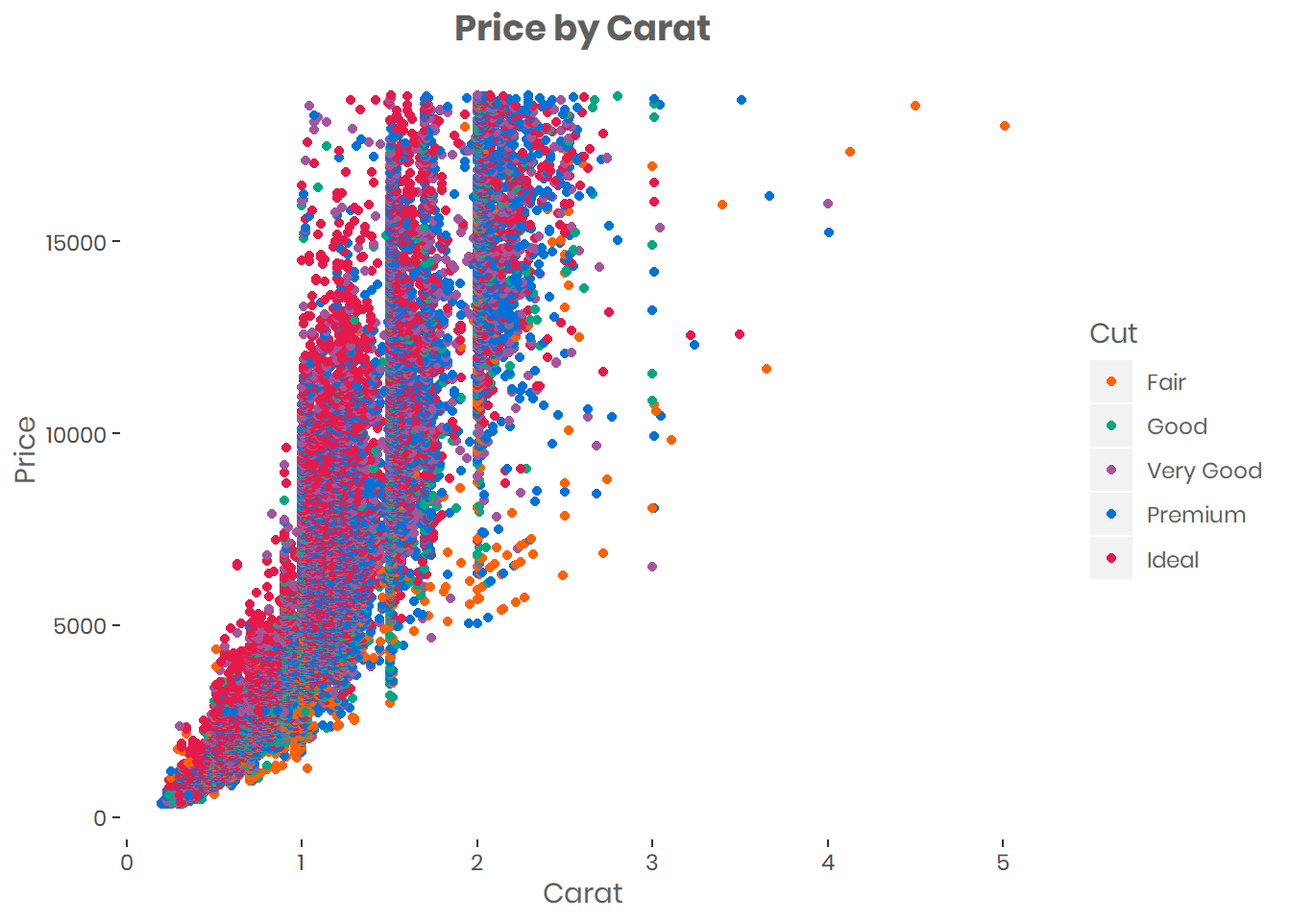
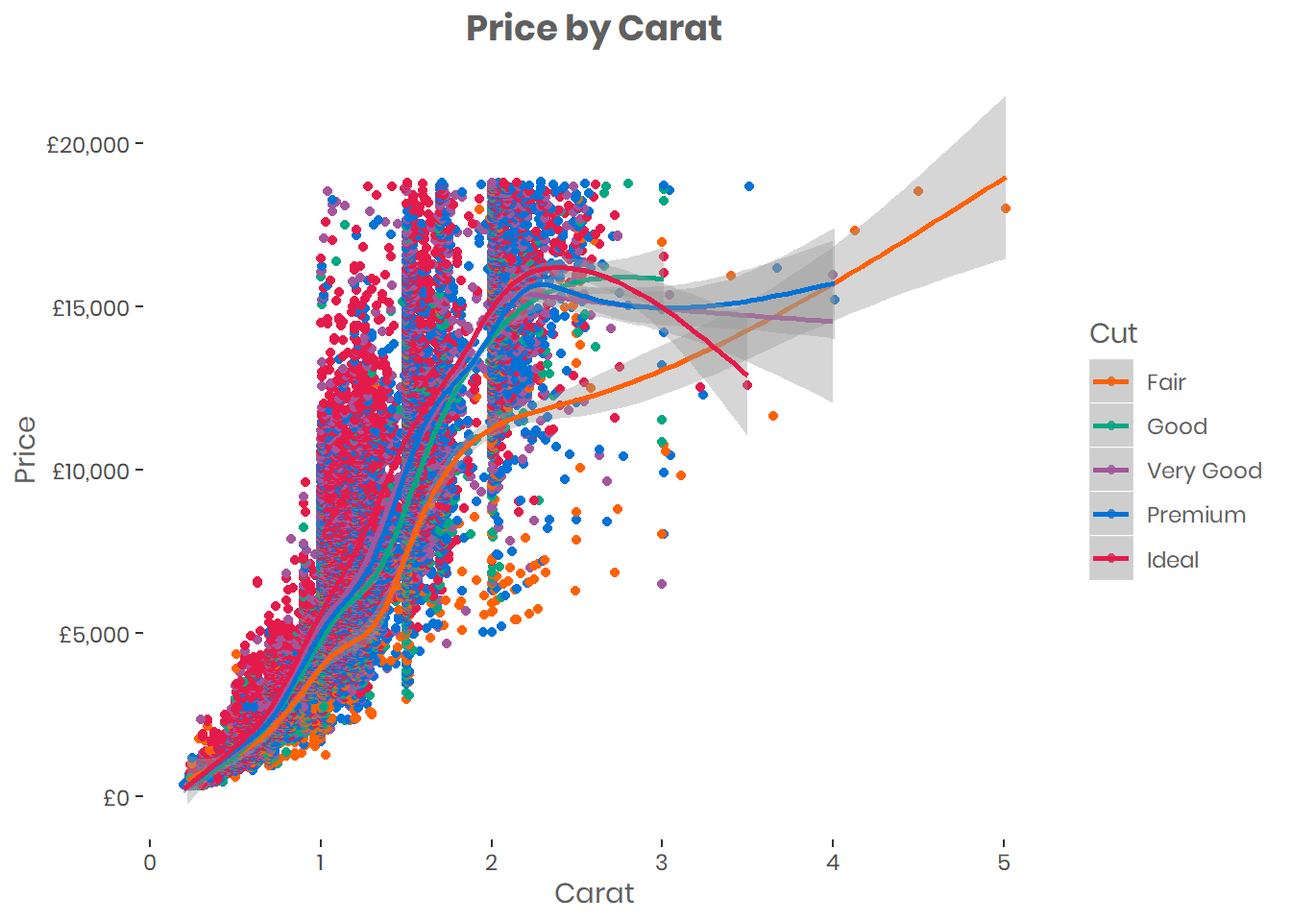
Plot fix

diff --git a/Cookbook.html b/Cookbook.html
@@ -529,99 +529,89 @@ div.tocify {
 <div class="sourceCode" id="cb3"><pre class="sourceCode r"><code class="sourceCode r"><a class="sourceLine" id="cb3-1" title="1"><span class="co"># Scatter plot</span></a>
 <a class="sourceLine" id="cb3-2" title="2">d &lt;-<span class="st"> </span>diamonds <span class="co"># using diamonds dataset</span></a>
 <a class="sourceLine" id="cb3-3" title="3"></a>
-<a class="sourceLine" id="cb3-4" title="4">plot.point &lt;-<span class="st"> </span><span class="kw">ggplot</span>(<span class="dt">data =</span> d)<span class="op">+</span><span class="st"> </span></a>
-<a class="sourceLine" id="cb3-5" title="5"><span class="st">  </span><span class="kw">geom_point</span>(<span class="kw">aes</span>(<span class="dt">x =</span> carat, <span class="dt">y =</span> price, <span class="dt">color =</span> cut)) <span class="op">+</span><span class="st"> </span></a>
-<a class="sourceLine" id="cb3-6" title="6"><span class="st">  </span><span class="kw">theme</span>(<span class="dt">text =</span> <span class="kw">element_text</span>(<span class="dt">family =</span> <span class="st">&quot;Poppins&quot;</span>, <span class="dt">color =</span> <span class="st">&quot;#5F5F5F&quot;</span>), </a>
-<a class="sourceLine" id="cb3-7" title="7">        <span class="dt">plot.title=</span><span class="kw">element_text</span>(<span class="dt">size=</span><span class="dv">14</span>,<span class="dt">family =</span> <span class="st">&quot;Poppins&quot;</span>, <span class="dt">face=</span><span class="st">&quot;bold&quot;</span>, <span class="dt">hjust =</span> <span class="fl">0.5</span>),</a>
-<a class="sourceLine" id="cb3-8" title="8">        <span class="dt">panel.background  =</span>  <span class="kw">element_blank</span>()) <span class="op">+</span><span class="st"> </span></a>
-<a class="sourceLine" id="cb3-9" title="9"><span class="st">  </span><span class="kw">labs</span>( <span class="dt">x=</span> <span class="st">&quot;Carat&quot;</span>, <span class="dt">y =</span> <span class="st">&quot;Price&quot;</span>, <span class="dt">title =</span> <span class="st">&quot;Price by Carat&quot;</span>) <span class="op">+</span></a>
-<a class="sourceLine" id="cb3-10" title="10"><span class="st">  </span><span class="kw">scale_color_manual</span>(<span class="dt">values=</span> plot_colour_inverse, <span class="dt">name =</span> <span class="st">&#39;Cut&#39;</span>) </a>
-<a class="sourceLine" id="cb3-11" title="11">plot.point</a></code></pre></div>
-<p><img src="Cookbook_files/figure-html/scatter-1.png" width="672" style="display: block; margin: auto;" /></p>
-<p>Depending on your data, additional changes may be required to “neaten” the plot. For example, we can reformat the y axis labels to display them as currency, and add <code>geom_smooth</code> to help show patterns:</p>
-<div class="sourceCode" id="cb4"><pre class="sourceCode r"><code class="sourceCode r"><a class="sourceLine" id="cb4-1" title="1"><span class="co"># Scatter plot</span></a>
-<a class="sourceLine" id="cb4-2" title="2">d &lt;-<span class="st"> </span>diamonds</a>
-<a class="sourceLine" id="cb4-3" title="3">plot.point.v1 &lt;-<span class="st"> </span><span class="kw">ggplot</span>(<span class="dt">data =</span> d)<span class="op">+</span><span class="st"> </span></a>
-<a class="sourceLine" id="cb4-4" title="4"><span class="st">  </span><span class="kw">geom_point</span>(<span class="kw">aes</span>(<span class="dt">x =</span> carat, <span class="dt">y =</span> price, <span class="dt">color =</span> cut)) <span class="op">+</span></a>
-<a class="sourceLine" id="cb4-5" title="5"><span class="st">  </span><span class="kw">geom_smooth</span>(<span class="kw">aes</span>(<span class="dt">x =</span> carat, <span class="dt">y =</span> price, <span class="dt">color =</span> cut)) <span class="op">+</span></a>
-<a class="sourceLine" id="cb4-6" title="6"><span class="st">  </span><span class="kw">theme</span>(<span class="dt">text =</span> <span class="kw">element_text</span>(<span class="dt">family =</span> <span class="st">&quot;Poppins&quot;</span>, <span class="dt">color =</span> <span class="st">&quot;#5F5F5F&quot;</span>), </a>
-<a class="sourceLine" id="cb4-7" title="7">        <span class="dt">plot.title=</span><span class="kw">element_text</span>(<span class="dt">size=</span><span class="dv">14</span>,<span class="dt">family =</span> <span class="st">&quot;Poppins&quot;</span>, <span class="dt">face=</span><span class="st">&quot;bold&quot;</span>, <span class="dt">hjust =</span> <span class="fl">0.5</span>),</a>
-<a class="sourceLine" id="cb4-8" title="8">        <span class="dt">panel.background  =</span>  <span class="kw">element_blank</span>() ) <span class="op">+</span><span class="st"> </span></a>
-<a class="sourceLine" id="cb4-9" title="9"><span class="st">  </span><span class="kw">labs</span>( <span class="dt">x=</span> <span class="st">&quot;Carat&quot;</span>, <span class="dt">y =</span> <span class="st">&quot;Price&quot;</span>, <span class="dt">title =</span> <span class="st">&quot;Price by Carat&quot;</span>) <span class="op">+</span></a>
-<a class="sourceLine" id="cb4-10" title="10"><span class="st">  </span><span class="kw">scale_color_manual</span>(<span class="dt">values=</span> plot_colour_inverse, <span class="dt">name =</span> <span class="st">&#39;Cut&#39;</span>) <span class="op">+</span></a>
-<a class="sourceLine" id="cb4-11" title="11"><span class="st">  </span><span class="kw">scale_y_continuous</span>(<span class="dt">labels =</span> scales<span class="op">::</span><span class="kw">dollar_format</span>(<span class="dt">prefix =</span> <span class="st">&quot;£&quot;</span>)) <span class="co"># reformat scales to currency</span></a>
-<a class="sourceLine" id="cb4-12" title="12">plot.point.v1</a></code></pre></div>
-<p><img src="Cookbook_files/figure-html/Scatter2-1.png" width="672" style="display: block; margin: auto;" /></p>
+<a class="sourceLine" id="cb3-4" title="4"><span class="co"># Scatter plot</span></a>
+<a class="sourceLine" id="cb3-5" title="5">d &lt;-<span class="st"> </span>diamonds</a>
+<a class="sourceLine" id="cb3-6" title="6">plot.point &lt;-<span class="st"> </span><span class="kw">ggplot</span>(<span class="dt">data =</span> d)<span class="op">+</span><span class="st"> </span></a>
+<a class="sourceLine" id="cb3-7" title="7"><span class="st">  </span><span class="kw">geom_point</span>(<span class="kw">aes</span>(<span class="dt">x =</span> carat, <span class="dt">y =</span> price, <span class="dt">color =</span> cut)) <span class="op">+</span></a>
+<a class="sourceLine" id="cb3-8" title="8"><span class="st">  </span><span class="kw">geom_smooth</span>(<span class="kw">aes</span>(<span class="dt">x =</span> carat, <span class="dt">y =</span> price, <span class="dt">color =</span> cut)) <span class="op">+</span></a>
+<a class="sourceLine" id="cb3-9" title="9"><span class="st">  </span><span class="kw">theme</span>(<span class="dt">text =</span> <span class="kw">element_text</span>(<span class="dt">family =</span> <span class="st">&quot;Poppins&quot;</span>, <span class="dt">color =</span> <span class="st">&quot;#5F5F5F&quot;</span>), </a>
+<a class="sourceLine" id="cb3-10" title="10">        <span class="dt">plot.title=</span><span class="kw">element_text</span>(<span class="dt">size=</span><span class="dv">14</span>,<span class="dt">family =</span> <span class="st">&quot;Poppins&quot;</span>, <span class="dt">face=</span><span class="st">&quot;bold&quot;</span>, <span class="dt">hjust =</span> <span class="fl">0.5</span>),</a>
+<a class="sourceLine" id="cb3-11" title="11">        <span class="dt">panel.background  =</span>  <span class="kw">element_blank</span>() ) <span class="op">+</span><span class="st"> </span></a>
+<a class="sourceLine" id="cb3-12" title="12"><span class="st">  </span><span class="kw">labs</span>( <span class="dt">x=</span> <span class="st">&quot;Carat&quot;</span>, <span class="dt">y =</span> <span class="st">&quot;Price&quot;</span>, <span class="dt">title =</span> <span class="st">&quot;Price by Carat&quot;</span>) <span class="op">+</span></a>
+<a class="sourceLine" id="cb3-13" title="13"><span class="st">  </span><span class="kw">scale_color_manual</span>(<span class="dt">values=</span> plot_colour_inverse, <span class="dt">name =</span> <span class="st">&#39;Cut&#39;</span>) <span class="op">+</span></a>
+<a class="sourceLine" id="cb3-14" title="14"><span class="st">  </span><span class="kw">scale_y_continuous</span>(<span class="dt">labels =</span> scales<span class="op">::</span><span class="kw">dollar_format</span>(<span class="dt">prefix =</span> <span class="st">&quot;£&quot;</span>)) <span class="co"># reformat scales to currency</span></a>
+<a class="sourceLine" id="cb3-15" title="15">plot.point</a></code></pre></div>
+<p><img src="Cookbook_files/figure-html/Scatter-1.png" width="672" style="display: block; margin: auto;" /> Depending on the data, additional changes may be required to “neaten” the plot. For example, we can reformat the y axis labels to display them as currency, and add <code>geom_smooth</code> to help show patterns.</p>
 </div>
 <div id="boxplot" class="section level2">
 <h2>Boxplot</h2>
 <p>A boxplot shows the distribution of a variable. It gives you the median, the quartiles, and all outliers (shown as individual dots).</p>
 <p>You can do lots more to a boxplot, rotating it horizontally, adding the notch argument to add confidence intervals around the median, adding the mean, etc. See <code>tidyverse</code> <a href="https://ggplot2.tidyverse.org/reference/geom_boxplot.html">documentation</a> for more details</p>
-<div class="sourceCode" id="cb5"><pre class="sourceCode r"><code class="sourceCode r"><a class="sourceLine" id="cb5-1" title="1">d &lt;-<span class="st"> </span>diamonds</a>
-<a class="sourceLine" id="cb5-2" title="2">plot.box &lt;-<span class="st"> </span><span class="kw">ggplot</span>(<span class="dt">data =</span> d)<span class="op">+</span><span class="st"> </span></a>
-<a class="sourceLine" id="cb5-3" title="3"><span class="st">  </span><span class="kw">geom_boxplot</span>(<span class="kw">aes</span>(<span class="dt">x =</span> carat, <span class="dt">y =</span> price, <span class="dt">fill =</span> cut)) <span class="op">+</span><span class="st"> </span></a>
-<a class="sourceLine" id="cb5-4" title="4"><span class="st">  </span><span class="kw">theme</span>(<span class="dt">text =</span> <span class="kw">element_text</span>(<span class="dt">family =</span> <span class="st">&quot;Poppins&quot;</span>, <span class="dt">color =</span> <span class="st">&quot;#5F5F5F&quot;</span>), </a>
-<a class="sourceLine" id="cb5-5" title="5">  <span class="dt">plot.title=</span><span class="kw">element_text</span>(<span class="dt">size=</span><span class="dv">14</span>,<span class="dt">family =</span> <span class="st">&quot;Poppins&quot;</span>, <span class="dt">face=</span><span class="st">&quot;bold&quot;</span>, <span class="dt">hjust =</span> <span class="fl">0.5</span>),</a>
-<a class="sourceLine" id="cb5-6" title="6">  <span class="dt">panel.background  =</span>  <span class="kw">element_blank</span>()) <span class="op">+</span></a>
-<a class="sourceLine" id="cb5-7" title="7"><span class="st">  </span><span class="kw">labs</span>( <span class="dt">x=</span> <span class="st">&quot;Carat&quot;</span>, <span class="dt">y =</span> <span class="st">&quot;Price&quot;</span>, <span class="dt">title =</span> <span class="st">&quot;Price by Carat&quot;</span>, <span class="dt">fill =</span> <span class="st">&quot;Cut&quot;</span>) <span class="op">+</span></a>
-<a class="sourceLine" id="cb5-8" title="8"><span class="st">  </span><span class="kw">scale_fill_manual</span>(<span class="dt">values=</span>plot_colour_inverse) <span class="op">+</span></a>
-<a class="sourceLine" id="cb5-9" title="9"><span class="st">  </span><span class="kw">scale_y_continuous</span>(<span class="dt">labels =</span> scales<span class="op">::</span><span class="kw">dollar_format</span>(<span class="dt">prefix =</span> <span class="st">&quot;£&quot;</span>)) <span class="co"># reformat scales to currency</span></a>
-<a class="sourceLine" id="cb5-10" title="10">plot.box</a></code></pre></div>
+<div class="sourceCode" id="cb4"><pre class="sourceCode r"><code class="sourceCode r"><a class="sourceLine" id="cb4-1" title="1">d &lt;-<span class="st"> </span>diamonds</a>
+<a class="sourceLine" id="cb4-2" title="2">plot.box &lt;-<span class="st"> </span><span class="kw">ggplot</span>(<span class="dt">data =</span> d)<span class="op">+</span><span class="st"> </span></a>
+<a class="sourceLine" id="cb4-3" title="3"><span class="st">  </span><span class="kw">geom_boxplot</span>(<span class="kw">aes</span>(<span class="dt">x =</span> carat, <span class="dt">y =</span> price, <span class="dt">fill =</span> cut)) <span class="op">+</span><span class="st"> </span></a>
+<a class="sourceLine" id="cb4-4" title="4"><span class="st">  </span><span class="kw">theme</span>(<span class="dt">text =</span> <span class="kw">element_text</span>(<span class="dt">family =</span> <span class="st">&quot;Poppins&quot;</span>, <span class="dt">color =</span> <span class="st">&quot;#5F5F5F&quot;</span>), </a>
+<a class="sourceLine" id="cb4-5" title="5">  <span class="dt">plot.title=</span><span class="kw">element_text</span>(<span class="dt">size=</span><span class="dv">14</span>,<span class="dt">family =</span> <span class="st">&quot;Poppins&quot;</span>, <span class="dt">face=</span><span class="st">&quot;bold&quot;</span>, <span class="dt">hjust =</span> <span class="fl">0.5</span>),</a>
+<a class="sourceLine" id="cb4-6" title="6">  <span class="dt">panel.background  =</span>  <span class="kw">element_blank</span>()) <span class="op">+</span></a>
+<a class="sourceLine" id="cb4-7" title="7"><span class="st">  </span><span class="kw">labs</span>( <span class="dt">x=</span> <span class="st">&quot;Carat&quot;</span>, <span class="dt">y =</span> <span class="st">&quot;Price&quot;</span>, <span class="dt">title =</span> <span class="st">&quot;Price by Carat&quot;</span>, <span class="dt">fill =</span> <span class="st">&quot;Cut&quot;</span>) <span class="op">+</span></a>
+<a class="sourceLine" id="cb4-8" title="8"><span class="st">  </span><span class="kw">scale_fill_manual</span>(<span class="dt">values=</span>plot_colour_inverse) <span class="op">+</span></a>
+<a class="sourceLine" id="cb4-9" title="9"><span class="st">  </span><span class="kw">scale_y_continuous</span>(<span class="dt">labels =</span> scales<span class="op">::</span><span class="kw">dollar_format</span>(<span class="dt">prefix =</span> <span class="st">&quot;£&quot;</span>)) <span class="co"># reformat scales to currency</span></a>
+<a class="sourceLine" id="cb4-10" title="10">plot.box</a></code></pre></div>
 <p><img src="Cookbook_files/figure-html/Boxplot-1.png" width="672" style="display: block; margin: auto;" /></p>
 </div>
 <div id="histogram" class="section level2">
 <h2>Histogram</h2>
 <p>Using <code>geom_hist</code>, we can plot the distribution of a variable. Altering the “binwidth” argument changes the size of the bins, and thus the level of detail.</p>
-<div class="sourceCode" id="cb6"><pre class="sourceCode r"><code class="sourceCode r"><a class="sourceLine" id="cb6-1" title="1">d &lt;-<span class="st"> </span>iris </a>
-<a class="sourceLine" id="cb6-2" title="2">d &lt;-<span class="st"> </span><span class="kw">subset</span>(d, d<span class="op">$</span>Species <span class="op">==</span><span class="st"> &quot;setosa&quot;</span>) <span class="co"># only look at &quot;Setosa&quot; species from the Iris dataset</span></a>
-<a class="sourceLine" id="cb6-3" title="3"></a>
-<a class="sourceLine" id="cb6-4" title="4">plot.hist &lt;-<span class="st"> </span><span class="kw">ggplot</span>(<span class="dt">data =</span> d)<span class="op">+</span><span class="st"> </span></a>
-<a class="sourceLine" id="cb6-5" title="5"><span class="st">  </span><span class="kw">geom_histogram</span>(<span class="kw">aes</span>(<span class="dt">x =</span> Petal.Length), <span class="dt">binwidth =</span> <span class="fl">0.2</span>, <span class="dt">fill =</span> <span class="st">&quot;#ff6105&quot;</span>) <span class="op">+</span><span class="st"> </span></a>
-<a class="sourceLine" id="cb6-6" title="6"><span class="st">  </span><span class="kw">theme</span>(<span class="dt">text =</span> <span class="kw">element_text</span>(<span class="dt">family =</span> <span class="st">&quot;Poppins&quot;</span>, <span class="dt">color =</span> <span class="st">&quot;#5F5F5F&quot;</span>), </a>
-<a class="sourceLine" id="cb6-7" title="7">  <span class="dt">plot.title=</span><span class="kw">element_text</span>(<span class="dt">size=</span><span class="dv">14</span>,<span class="dt">family =</span> <span class="st">&quot;Poppins&quot;</span>, <span class="dt">face=</span><span class="st">&quot;bold&quot;</span>, <span class="dt">hjust =</span> <span class="fl">0.5</span>),</a>
-<a class="sourceLine" id="cb6-8" title="8">        <span class="dt">panel.background  =</span>  <span class="kw">element_blank</span>()) <span class="op">+</span><span class="st"> </span></a>
-<a class="sourceLine" id="cb6-9" title="9"><span class="st">  </span><span class="kw">labs</span>( <span class="dt">x=</span> <span class="st">&quot;Sepal Length&quot;</span>,  <span class="dt">y =</span> <span class="st">&quot;Number of Observations&quot;</span>,  <span class="dt">title =</span> <span class="st">&quot;Setosa Petal Length Distribution&quot;</span>) </a>
-<a class="sourceLine" id="cb6-10" title="10">plot.hist</a></code></pre></div>
+<div class="sourceCode" id="cb5"><pre class="sourceCode r"><code class="sourceCode r"><a class="sourceLine" id="cb5-1" title="1">d &lt;-<span class="st"> </span>iris </a>
+<a class="sourceLine" id="cb5-2" title="2">d &lt;-<span class="st"> </span><span class="kw">subset</span>(d, d<span class="op">$</span>Species <span class="op">==</span><span class="st"> &quot;setosa&quot;</span>) <span class="co"># only look at &quot;Setosa&quot; species from the Iris dataset</span></a>
+<a class="sourceLine" id="cb5-3" title="3"></a>
+<a class="sourceLine" id="cb5-4" title="4">plot.hist &lt;-<span class="st"> </span><span class="kw">ggplot</span>(<span class="dt">data =</span> d)<span class="op">+</span><span class="st"> </span></a>
+<a class="sourceLine" id="cb5-5" title="5"><span class="st">  </span><span class="kw">geom_histogram</span>(<span class="kw">aes</span>(<span class="dt">x =</span> Petal.Length), <span class="dt">binwidth =</span> <span class="fl">0.2</span>, <span class="dt">fill =</span> <span class="st">&quot;#ff6105&quot;</span>) <span class="op">+</span><span class="st"> </span></a>
+<a class="sourceLine" id="cb5-6" title="6"><span class="st">  </span><span class="kw">theme</span>(<span class="dt">text =</span> <span class="kw">element_text</span>(<span class="dt">family =</span> <span class="st">&quot;Poppins&quot;</span>, <span class="dt">color =</span> <span class="st">&quot;#5F5F5F&quot;</span>), </a>
+<a class="sourceLine" id="cb5-7" title="7">  <span class="dt">plot.title=</span><span class="kw">element_text</span>(<span class="dt">size=</span><span class="dv">14</span>,<span class="dt">family =</span> <span class="st">&quot;Poppins&quot;</span>, <span class="dt">face=</span><span class="st">&quot;bold&quot;</span>, <span class="dt">hjust =</span> <span class="fl">0.5</span>),</a>
+<a class="sourceLine" id="cb5-8" title="8">        <span class="dt">panel.background  =</span>  <span class="kw">element_blank</span>()) <span class="op">+</span><span class="st"> </span></a>
+<a class="sourceLine" id="cb5-9" title="9"><span class="st">  </span><span class="kw">labs</span>( <span class="dt">x=</span> <span class="st">&quot;Sepal Length&quot;</span>,  <span class="dt">y =</span> <span class="st">&quot;Number of Observations&quot;</span>,  <span class="dt">title =</span> <span class="st">&quot;Setosa Petal Length Distribution&quot;</span>) </a>
+<a class="sourceLine" id="cb5-10" title="10">plot.hist</a></code></pre></div>
 <p><img src="Cookbook_files/figure-html/hist-1.png" width="672" style="display: block; margin: auto;" /></p>
 </div>
 <div id="bar-chart" class="section level2">
 <h2>Bar chart</h2>
 <p>We can use either <code>geom_bar</code> or <code>geom_col</code> for bar charts. For the former, the height of the bars relate to <em>the number of cases</em> per group and for the latter, the height represents the <em>values</em>.</p>
-<div class="sourceCode" id="cb7"><pre class="sourceCode r"><code class="sourceCode r"><a class="sourceLine" id="cb7-1" title="1">d &lt;-<span class="st"> </span>diamonds  </a>
-<a class="sourceLine" id="cb7-2" title="2"></a>
-<a class="sourceLine" id="cb7-3" title="3">plot.bar &lt;-<span class="st"> </span><span class="kw">ggplot</span>(<span class="dt">data =</span> d)<span class="op">+</span><span class="st"> </span></a>
-<a class="sourceLine" id="cb7-4" title="4"><span class="st">  </span><span class="kw">geom_col</span>(<span class="kw">aes</span>(<span class="dt">x =</span> cut, <span class="dt">y =</span> price, <span class="dt">fill =</span> cut)) <span class="op">+</span><span class="st"> </span></a>
-<a class="sourceLine" id="cb7-5" title="5"><span class="st">  </span><span class="kw">theme</span>(<span class="dt">text =</span> <span class="kw">element_text</span>(<span class="dt">family =</span> <span class="st">&quot;Poppins&quot;</span>, <span class="dt">color =</span> <span class="st">&quot;#5F5F5F&quot;</span>), </a>
-<a class="sourceLine" id="cb7-6" title="6">  <span class="dt">plot.title=</span><span class="kw">element_text</span>(<span class="dt">size=</span><span class="dv">14</span>,<span class="dt">family =</span> <span class="st">&quot;Poppins&quot;</span>, <span class="dt">face=</span><span class="st">&quot;bold&quot;</span>, <span class="dt">hjust =</span> <span class="fl">0.5</span>),</a>
-<a class="sourceLine" id="cb7-7" title="7">        <span class="dt">panel.background  =</span>  <span class="kw">element_blank</span>(),</a>
-<a class="sourceLine" id="cb7-8" title="8">  <span class="dt">legend.position =</span> <span class="st">&quot;none&quot;</span>) <span class="op">+</span><span class="st"> </span><span class="co"># remove legend</span></a>
-<a class="sourceLine" id="cb7-9" title="9"><span class="st">  </span><span class="kw">labs</span>( <span class="dt">x=</span> <span class="st">&quot;Cut&quot;</span>,  <span class="dt">y =</span> <span class="st">&quot;Value of Diamonds&quot;</span>,  <span class="dt">title =</span> <span class="st">&quot;Value of Diamonds by Cut&quot;</span>) <span class="op">+</span></a>
-<a class="sourceLine" id="cb7-10" title="10"><span class="st">  </span><span class="kw">scale_fill_manual</span>(<span class="dt">values=</span>plot_colour_inverse) <span class="op">+</span></a>
-<a class="sourceLine" id="cb7-11" title="11"><span class="st">  </span><span class="kw">scale_y_continuous</span>(<span class="dt">labels =</span> scales<span class="op">::</span><span class="kw">dollar_format</span>(<span class="dt">prefix =</span> <span class="st">&quot;£&quot;</span>))</a>
-<a class="sourceLine" id="cb7-12" title="12">plot.bar</a></code></pre></div>
+<div class="sourceCode" id="cb6"><pre class="sourceCode r"><code class="sourceCode r"><a class="sourceLine" id="cb6-1" title="1">d &lt;-<span class="st"> </span>diamonds  </a>
+<a class="sourceLine" id="cb6-2" title="2"></a>
+<a class="sourceLine" id="cb6-3" title="3">plot.bar &lt;-<span class="st"> </span><span class="kw">ggplot</span>(<span class="dt">data =</span> d)<span class="op">+</span><span class="st"> </span></a>
+<a class="sourceLine" id="cb6-4" title="4"><span class="st">  </span><span class="kw">geom_col</span>(<span class="kw">aes</span>(<span class="dt">x =</span> cut, <span class="dt">y =</span> price, <span class="dt">fill =</span> cut)) <span class="op">+</span><span class="st"> </span></a>
+<a class="sourceLine" id="cb6-5" title="5"><span class="st">  </span><span class="kw">theme</span>(<span class="dt">text =</span> <span class="kw">element_text</span>(<span class="dt">family =</span> <span class="st">&quot;Poppins&quot;</span>, <span class="dt">color =</span> <span class="st">&quot;#5F5F5F&quot;</span>), </a>
+<a class="sourceLine" id="cb6-6" title="6">  <span class="dt">plot.title=</span><span class="kw">element_text</span>(<span class="dt">size=</span><span class="dv">14</span>,<span class="dt">family =</span> <span class="st">&quot;Poppins&quot;</span>, <span class="dt">face=</span><span class="st">&quot;bold&quot;</span>, <span class="dt">hjust =</span> <span class="fl">0.5</span>),</a>
+<a class="sourceLine" id="cb6-7" title="7">        <span class="dt">panel.background  =</span>  <span class="kw">element_blank</span>(),</a>
+<a class="sourceLine" id="cb6-8" title="8">  <span class="dt">legend.position =</span> <span class="st">&quot;none&quot;</span>) <span class="op">+</span><span class="st"> </span><span class="co"># remove legend</span></a>
+<a class="sourceLine" id="cb6-9" title="9"><span class="st">  </span><span class="kw">labs</span>( <span class="dt">x=</span> <span class="st">&quot;Cut&quot;</span>,  <span class="dt">y =</span> <span class="st">&quot;Value of Diamonds&quot;</span>,  <span class="dt">title =</span> <span class="st">&quot;Value of Diamonds by Cut&quot;</span>) <span class="op">+</span></a>
+<a class="sourceLine" id="cb6-10" title="10"><span class="st">  </span><span class="kw">scale_fill_manual</span>(<span class="dt">values=</span>plot_colour_inverse) <span class="op">+</span></a>
+<a class="sourceLine" id="cb6-11" title="11"><span class="st">  </span><span class="kw">scale_y_continuous</span>(<span class="dt">labels =</span> scales<span class="op">::</span><span class="kw">dollar_format</span>(<span class="dt">prefix =</span> <span class="st">&quot;£&quot;</span>))</a>
+<a class="sourceLine" id="cb6-12" title="12">plot.bar</a></code></pre></div>
 <p><img src="Cookbook_files/figure-html/bar-1.png" width="672" style="display: block; margin: auto;" /></p>
 </div>
 <div id="waffle" class="section level2">
 <h2>Waffle</h2>
 <p>An infographic-type vsualisation can be created with the <code>waffle</code> package. In order to use the icons, the <em>Font Awesome</em> TrueType font file will need to be installed (use the 4.7 version from <a href="https://github.com/FortAwesome/Font-Awesome/releases/tag/v4.7.0%5D">here</a>) and then loaded into R using the <code>extrafont</code>package.</p>
-<div class="sourceCode" id="cb8"><pre class="sourceCode r"><code class="sourceCode r"><a class="sourceLine" id="cb8-1" title="1"><span class="kw">library</span>(extrafont)</a>
-<a class="sourceLine" id="cb8-2" title="2"><span class="kw">library</span>(waffle)</a>
-<a class="sourceLine" id="cb8-3" title="3"></a>
-<a class="sourceLine" id="cb8-4" title="4"><span class="co">#font_import()</span></a>
-<a class="sourceLine" id="cb8-5" title="5"><span class="co">#loadfonts(device = &quot;win&quot;)</span></a>
-<a class="sourceLine" id="cb8-6" title="6"></a>
-<a class="sourceLine" id="cb8-7" title="7"><span class="co"># get proportion of diamonds </span></a>
-<a class="sourceLine" id="cb8-8" title="8">d &lt;-<span class="st"> </span><span class="kw">table</span>(diamonds<span class="op">$</span>cut)            </a>
-<a class="sourceLine" id="cb8-9" title="9">d &lt;-<span class="st"> </span><span class="kw">prop.table</span>(d) <span class="op">*</span><span class="st"> </span><span class="dv">100</span></a>
-<a class="sourceLine" id="cb8-10" title="10">d &lt;-<span class="st"> </span><span class="kw">round</span>(d)</a>
-<a class="sourceLine" id="cb8-11" title="11"></a>
-<a class="sourceLine" id="cb8-12" title="12"><span class="kw">waffle</span>(d, <span class="dt">rows =</span> <span class="dv">5</span>, <span class="dt">use_glyph =</span> <span class="st">&quot;diamond&quot;</span>, <span class="dt">glyph_size =</span> <span class="dv">6</span>, </a>
-<a class="sourceLine" id="cb8-13" title="13">       <span class="dt">title =</span> <span class="st">&quot;Diamonds&quot;</span>) <span class="op">+</span></a>
-<a class="sourceLine" id="cb8-14" title="14"><span class="st">  </span><span class="kw">theme</span>(<span class="dt">text =</span> <span class="kw">element_text</span>(<span class="dt">family =</span> <span class="st">&quot;Poppins&quot;</span>, <span class="dt">size =</span> <span class="dv">14</span>, <span class="dt">colour =</span> <span class="st">&quot;#5F5F5F&quot;</span>),</a>
-<a class="sourceLine" id="cb8-15" title="15">        <span class="dt">plot.title=</span><span class="kw">element_text</span>(<span class="dt">size=</span><span class="dv">14</span>,<span class="dt">family =</span> <span class="st">&quot;Poppins&quot;</span>, <span class="dt">face=</span><span class="st">&quot;bold&quot;</span>, <span class="dt">hjust =</span> <span class="fl">0.5</span>), </a>
-<a class="sourceLine" id="cb8-16" title="16">        <span class="dt">panel.background  =</span>  <span class="kw">element_blank</span>() )<span class="op">+</span></a>
-<a class="sourceLine" id="cb8-17" title="17"><span class="st">  </span><span class="kw">scale_colour_manual</span>(<span class="dt">values =</span> plot_colour_inverse, <span class="dt">name =</span> <span class="st">&quot;Cut&quot;</span>, <span class="dt">labels =</span> <span class="kw">c</span>(<span class="st">&quot;Fair&quot;</span>, <span class="st">&quot;Good&quot;</span>, <span class="st">&quot;Very Good&quot;</span>, <span class="st">&quot;Premium&quot;</span>, <span class="st">&quot;Ideal&quot;</span>)) <span class="op">+</span></a>
-<a class="sourceLine" id="cb8-18" title="18"><span class="st">  </span><span class="kw">labs</span>( <span class="dt">caption =</span>  <span class="st">&quot;Diamonds by cut&quot;</span>)</a></code></pre></div>
+<div class="sourceCode" id="cb7"><pre class="sourceCode r"><code class="sourceCode r"><a class="sourceLine" id="cb7-1" title="1"><span class="kw">library</span>(extrafont)</a>
+<a class="sourceLine" id="cb7-2" title="2"><span class="kw">library</span>(waffle)</a>
+<a class="sourceLine" id="cb7-3" title="3"></a>
+<a class="sourceLine" id="cb7-4" title="4"><span class="co">#font_import()</span></a>
+<a class="sourceLine" id="cb7-5" title="5"><span class="co">#loadfonts(device = &quot;win&quot;)</span></a>
+<a class="sourceLine" id="cb7-6" title="6"></a>
+<a class="sourceLine" id="cb7-7" title="7"><span class="co"># get proportion of diamonds </span></a>
+<a class="sourceLine" id="cb7-8" title="8">d &lt;-<span class="st"> </span><span class="kw">table</span>(diamonds<span class="op">$</span>cut)            </a>
+<a class="sourceLine" id="cb7-9" title="9">d &lt;-<span class="st"> </span><span class="kw">prop.table</span>(d) <span class="op">*</span><span class="st"> </span><span class="dv">100</span></a>
+<a class="sourceLine" id="cb7-10" title="10">d &lt;-<span class="st"> </span><span class="kw">round</span>(d)</a>
+<a class="sourceLine" id="cb7-11" title="11"></a>
+<a class="sourceLine" id="cb7-12" title="12"><span class="kw">waffle</span>(d, <span class="dt">rows =</span> <span class="dv">5</span>, <span class="dt">use_glyph =</span> <span class="st">&quot;diamond&quot;</span>, <span class="dt">glyph_size =</span> <span class="dv">6</span>, </a>
+<a class="sourceLine" id="cb7-13" title="13">       <span class="dt">title =</span> <span class="st">&quot;Diamonds&quot;</span>) <span class="op">+</span></a>
+<a class="sourceLine" id="cb7-14" title="14"><span class="st">  </span><span class="kw">theme</span>(<span class="dt">text =</span> <span class="kw">element_text</span>(<span class="dt">family =</span> <span class="st">&quot;Poppins&quot;</span>, <span class="dt">size =</span> <span class="dv">14</span>, <span class="dt">colour =</span> <span class="st">&quot;#5F5F5F&quot;</span>),</a>
+<a class="sourceLine" id="cb7-15" title="15">        <span class="dt">plot.title=</span><span class="kw">element_text</span>(<span class="dt">size=</span><span class="dv">14</span>,<span class="dt">family =</span> <span class="st">&quot;Poppins&quot;</span>, <span class="dt">face=</span><span class="st">&quot;bold&quot;</span>, <span class="dt">hjust =</span> <span class="fl">0.5</span>), </a>
+<a class="sourceLine" id="cb7-16" title="16">        <span class="dt">panel.background  =</span>  <span class="kw">element_blank</span>() )<span class="op">+</span></a>
+<a class="sourceLine" id="cb7-17" title="17"><span class="st">  </span><span class="kw">scale_colour_manual</span>(<span class="dt">values =</span> plot_colour_inverse, <span class="dt">name =</span> <span class="st">&quot;Cut&quot;</span>, <span class="dt">labels =</span> <span class="kw">c</span>(<span class="st">&quot;Fair&quot;</span>, <span class="st">&quot;Good&quot;</span>, <span class="st">&quot;Very Good&quot;</span>, <span class="st">&quot;Premium&quot;</span>, <span class="st">&quot;Ideal&quot;</span>)) <span class="op">+</span></a>
+<a class="sourceLine" id="cb7-18" title="18"><span class="st">  </span><span class="kw">labs</span>( <span class="dt">caption =</span>  <span class="st">&quot;Diamonds by cut&quot;</span>)</a></code></pre></div>
 <p><img src="Cookbook_files/figure-html/waffle-1.png" width="672" style="display: block; margin: auto;" /></p>
 </div>
 
